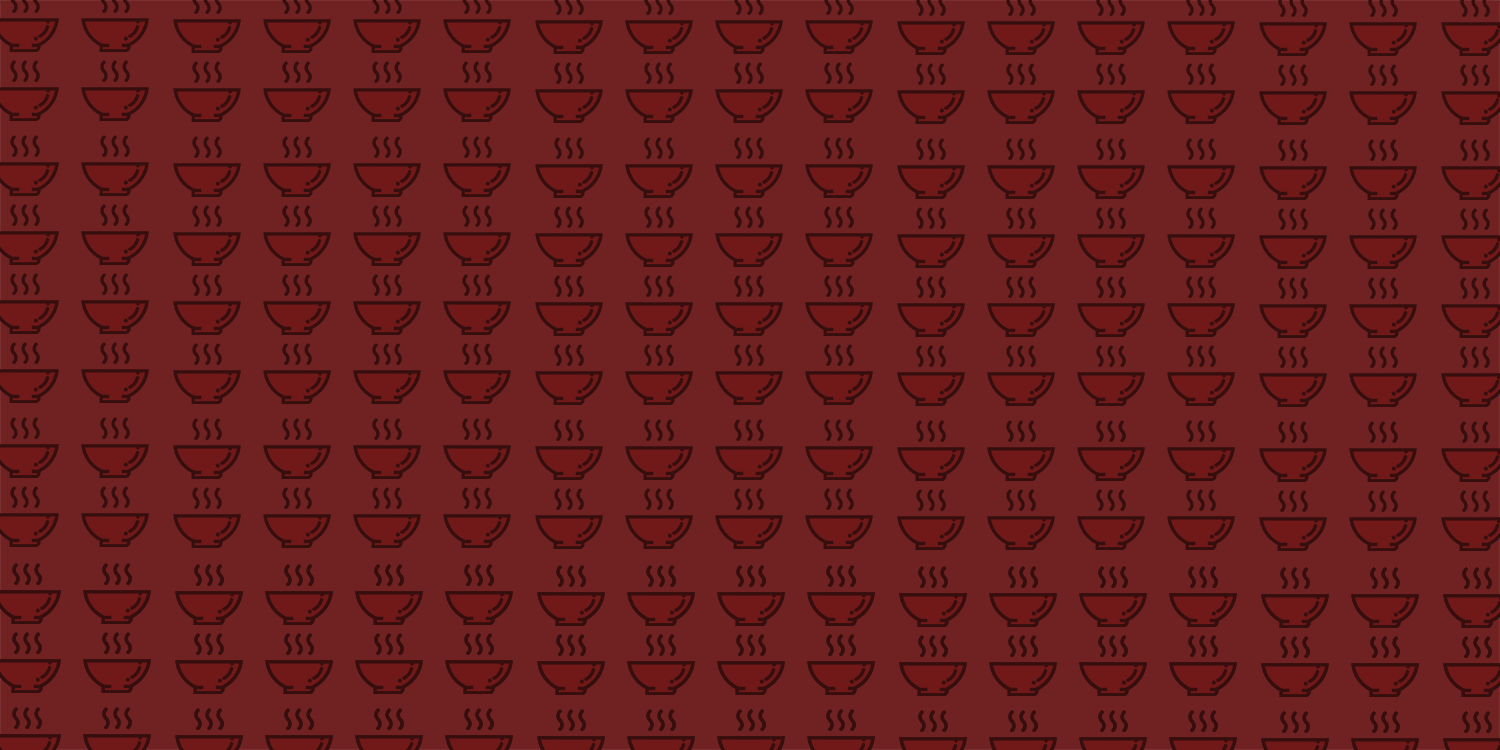
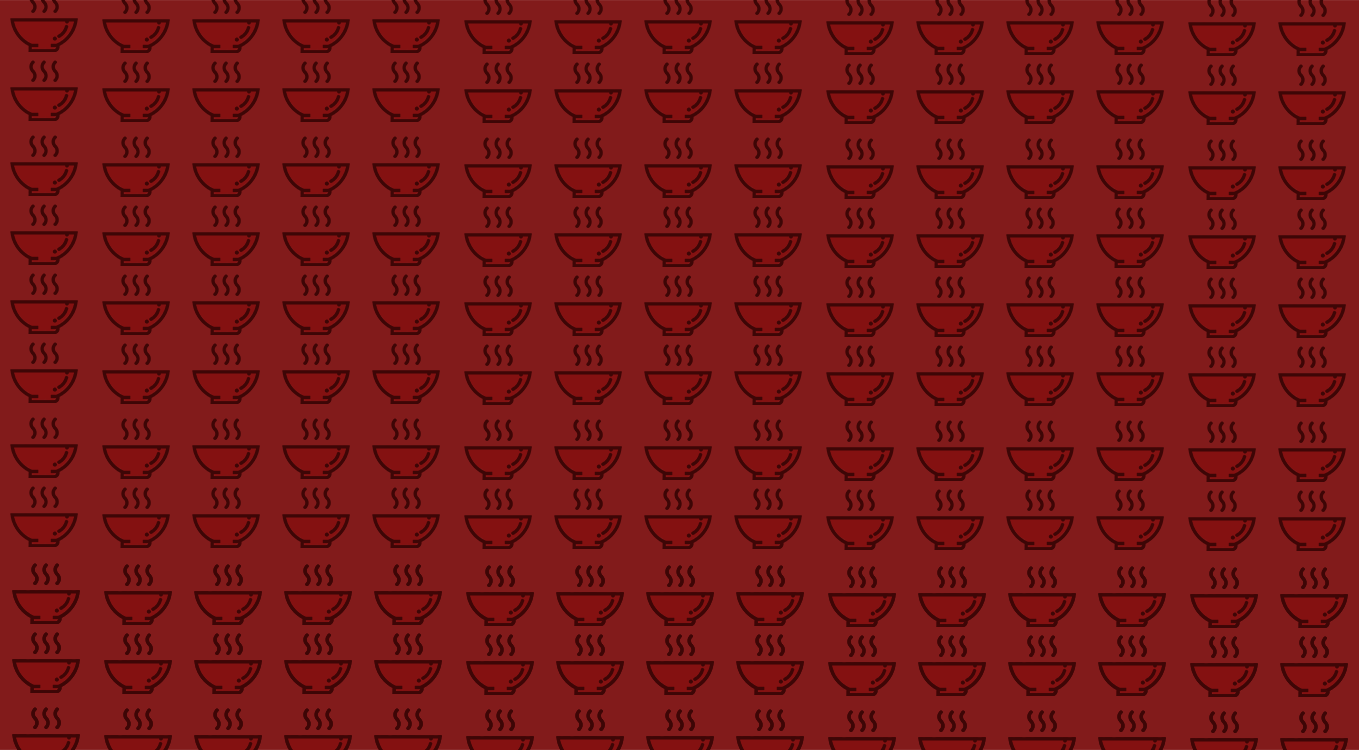
done home page

Changed region(s): [[0.0, 0.0, 1.0, 1.0]]

diff --git a/src/pages/HomePage/HomeContent/HomeContent.scss b/src/pages/HomePage/HomeContent/HomeContent.scss
@@ -1,6 +1,6 @@
 .HomeContent {
   width: 100%;
-  height: fit-content;
+  height: 100%;
   overflow-y: scroll;
 
   padding: 40px;
@@ -42,6 +42,112 @@
       font-size: 14px;
       letter-spacing: 0.01em;
       color: #949494;
+    }
+  }
+  &__table {
+    &__head {
+      width: 630px;
+      height: fit-content;
+
+      display: flex;
+      justify-content: space-between;
+      
+      h1 {
+        font-weight: 700;
+        font-size: 20px;
+        letter-spacing: 0.01em;
+        color: #0c0c0d;
+      }
+    }
+    &__headlines {
+      display: flex;
+      align-items: center;
+      justify-content: space-between;
+      padding-bottom: 15px;
+
+      border-bottom: 0.82px solid #efefef;
+
+      &__column {
+        display: flex;
+        align-items: center;
+        justify-content: center;
+        flex: 1;
+        flex-basis: 85px;
+
+        font-weight: 400;
+        font-size: 14px;
+        letter-spacing: 0.01em;
+        color: #949494;
+      }
+    }
+    &__list {
+      width: 100%;
+      height: fit-content;
+
+      display: flex;
+      flex-direction: column;
+      gap: 15px;
+
+      
+
+      &__item {
+        width: 100%;
+        height: fit-content;
+
+        display: flex;
+        align-items: center;
+        justify-content: space-between;
+
+        &__column {
+          display: flex;
+          align-items: center;
+          justify-content: center;
+          flex: 1;
+          flex-basis: 85px;
+
+          .img {
+            width: 30px;
+            height: 30px;
+            border-radius: 50%;
+            overflow: hidden;
+            display: flex;
+            align-items: center;
+            justify-content: center; 
+            margin-right: 10px;
+          }
+          p {
+            white-space: nowrap;
+            text-overflow: ellipsis;
+            overflow-x: hidden;
+            width: 160px;
+          }
+          span {
+            font-weight: 700;
+            font-size: 14px;
+            text-align: center;
+            color: #de3030;
+          }
+          font-weight: 700;
+          font-size: 14px;
+          color: #0c0c0d;
+
+          &__role {
+            width: 87px;
+            height: 24px;
+            display: flex;
+            align-items: center;
+            justify-content: center;
+            
+            border-radius: 4px;
+            background: rgba(202, 53, 53, 0.2);
+
+            font-weight: 700;
+            font-size: 14px;
+            text-align: center;
+            color: #ca3535;
+          }
+        }
+      }
     }
   }
 }

diff --git a/src/pages/HomePage/HomeContent/HomeContent.jsx b/src/pages/HomePage/HomeContent/HomeContent.jsx
@@ -3,6 +3,9 @@ import './HomeContent.scss'
 
 import ContentWrap from '../../../components/Wrappers/ContentWrap'
 import DisplayGrowth from '../../../components/Displays/DisplayGrowth/DisplayGrowth'
+import FilterBtn from '../../../components/Buttons/FilterBtn/FilterBtn'
+
+import listUsers from '../../../constants/listUsers'
 
 const HomeContent = () => {
   return (
@@ -30,9 +33,38 @@ const HomeContent = () => {
         </ContentWrap>
         
       </div>
-      <div>
-        <ContentWrap >
-
+      <div className='HomeContent__table'>
+        <ContentWrap sx={{ display: 'flex', flexDirection: 'column', gap: '20px'}}>
+          <div className='HomeContent__table__head'>
+            <h1>Топ Хордовцев</h1>
+            <FilterBtn />
+          </div>
+          <div className='HomeContent__table__headlines'>
+            <div className='HomeContent__table__headlines__column' style={{ flex: 10, justifyContent: 'flex-start'}}>Никнейм</div>
+            <div className='HomeContent__table__headlines__column'>Фильтр</div>
+            <div className='HomeContent__table__headlines__column'>Кол-во</div>
+            <div className='HomeContent__table__headlines__column'>+ за неделю</div>
+            <div className='HomeContent__table__headlines__column'>Роль</div>
+          </div>
+          <div className='HomeContent__table__list'>
+            {listUsers.map(user =>
+              <div className='HomeContent__table__list__item'>
+                <div className='HomeContent__table__list__item__column' style={{ flex: 10, justifyContent: 'flex-start'}}>
+                  <div className='img'><img src={user.img} alt="" width={'100%'} height={'100%'}/></div>
+                  <p>{user.nick}</p>
+                </div>
+                <div className='HomeContent__table__list__item__column'>{user.status}</div>
+                <div className='HomeContent__table__list__item__column'>{user.totalHour} ч</div>
+                <div className='HomeContent__table__list__item__column'>
+                <span>+</span>  {user.hoursPerWeek} ч</div>
+                <div className='HomeContent__table__list__item__column'>
+                  <div className='HomeContent__table__list__item__column__role'>
+                    {user.role}
+                  </div>
+                </div>
+              </div>
+            )}
+          </div>
         </ContentWrap>
       </div>
     </section>

diff --git a/src/constants/listUsers.js b/src/constants/listUsers.js
@@ -1,0 +1,28 @@
+const listUsers = [
+  {
+    img: 'https://cdn.discordapp.com/avatars/398843464986394624/78909475f2dd4ddbecaf9b2f80e77406.webp?size=128',
+    nick: 'Мистер Дезхолм',
+    status: 'Онлайн',
+    totalHour: 100,
+    hoursPerWeek: 12,
+    role: 'Рыцарь',
+  },
+  {
+    img: 'https://cdn.discordapp.com/avatars/264025800368586752/a_f2d8422904f391eb95f22adafe5aac19.webp?size=64',
+    nick: 'Гендальф Серый?',
+    status: 'Онлайн',
+    totalHour: 50,
+    hoursPerWeek: 1,
+    role: 'Рыцарь',
+  },
+  {
+    img: 'https://cdn.discordapp.com/avatars/677592187529330698/de62c795a87f951543f8ddf647fceb38.webp?size=160',
+    nick: 'Фанат Гусар (Древлян)',
+    status: 'Онлайн',
+    totalHour: 0,
+    hoursPerWeek: 0,
+    role: 'Рыцарь',
+  },
+]
+
+export default listUsers

diff --git a/src/components/Buttons/FilterBtn/FilterBtn.jsx b/src/components/Buttons/FilterBtn/FilterBtn.jsx
@@ -1,0 +1,15 @@
+import React from 'react'
+import './FilterBtn.scss'
+
+import { ReactComponent as FilterIcon} from '../../../assets/svg/filterIcon.svg'
+
+const FilterBtn = () => {
+  return (
+    <button className='FilterBtn'>
+      Фильтры
+      <FilterIcon width={20} height={20}/>
+    </button>
+  )
+}
+
+export default FilterBtn

diff --git a/src/components/Buttons/FilterBtn/FilterBtn.scss b/src/components/Buttons/FilterBtn/FilterBtn.scss
@@ -1,0 +1,18 @@
+.FilterBtn {
+  display: flex;
+  align-items: center;
+  justify-content: center;
+  gap: 10px;
+
+  border-radius: 11px;
+  padding: 9px;
+  width: 131px;
+  height: 34px;
+  background: #f6f6f6;
+
+  font-weight: 700;
+  font-size: 12px;
+  letter-spacing: 0.01em;
+  text-align: center;
+  color: #0c0c0d;
+}

diff --git a/src/components/Headers/MainHeader/MainHeader.scss b/src/components/Headers/MainHeader/MainHeader.scss
@@ -7,6 +7,6 @@
   justify-content: flex-end;
   padding: 10px 69px;
   background-image: url('../../../assets/png/header/borsch.png');
-  background-repeat: cover;
+  background-repeat: repeat-x;
   background-position: 0px -45px;
 }

diff --git a/src/App.css b/src/App.css
@@ -89,7 +89,9 @@ button {
 
 body {
 	height: 100vh;
+	font-family: "Roboto", sans-serif;
 }
 #root {
 	height: 100%;
 }
+
